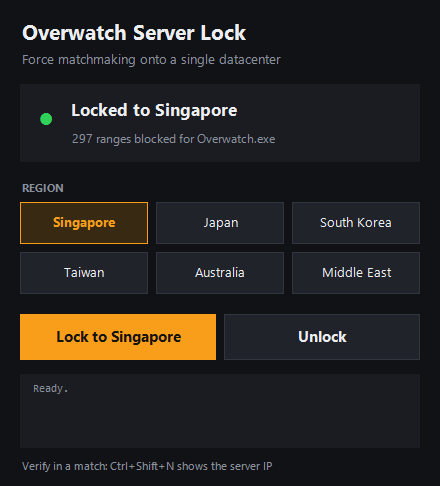
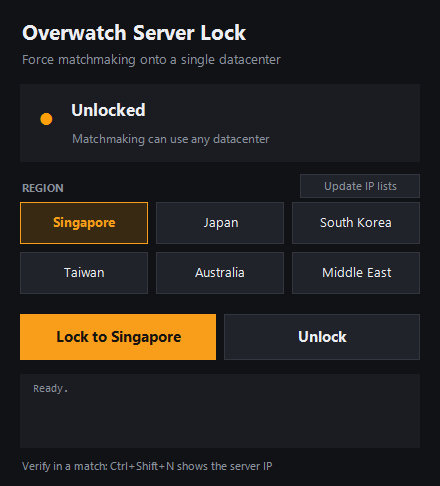
Faster lock: cached lists, parallel fetch, warm-up; add Update IP lists
- Lock uses the cached datacenter lists; new Update IP lists button
  (-Update) checks upstream and re-applies an active lock.
- Download changed lists in parallel (raise .NET's 2-connection cap):
  cold fetch 5.3 s -> 0.5 s.
- GUI keeps one background runspace and preloads NetSecurity and
  ScheduledTasks on open; clicks during warm-up are queued.
- Skip re-registering an identical refresh task and re-copying an
  unchanged script. Re-lock keeps recently seen login /24s.
- Always reset owner and ACL on the ProgramData state dir.
- Log unlocks to refresh.log.

diff --git a/README.md b/README.md
@@ -28,8 +28,10 @@ so matchmaking can only place you on the region you chose.
 
 ## How it works
 
-1. Downloads the current Overwatch 2 datacenter IP lists maintained by the community
+1. Uses the Overwatch 2 datacenter IP lists maintained by the community
    ([foryVERX/Overwatch-Server-Selector](https://github.com/foryVERX/Overwatch-Server-Selector)).
+   They are downloaded once and cached; **Update IP lists** checks upstream and downloads only files that
+   changed (in parallel), then re-applies the lock if it is on.
 2. Subtracts the ranges of the region you keep, plus the Battle.net login and patch endpoints
    (resolved via DNS at lock time) so sign-in keeps working.
 3. Creates inbound and outbound Windows Firewall block rules, scoped to `Overwatch.exe` only.
@@ -48,7 +50,7 @@ and the scheduled task. Settings, cached lists and `refresh.log` live in `%Progr
 2. Close Overwatch.
 3. Double-click the exe and accept the UAC prompt (firewall rules need admin).
    SmartScreen may warn because the exe is unsigned: **More info** then **Run anyway**.
-4. Pick a region and click **Lock**.
+4. Pick a region and click **Lock**. Use **Update IP lists** now and then to pull newer datacenter lists.
 5. Start Overwatch and queue. In a match, press `Ctrl+Shift+N` to see the server IP and confirm.
 6. Click **Unlock** when you are done, or before grouping with friends who play on other servers.
 
@@ -61,6 +63,7 @@ The exe is a thin launcher around two PowerShell scripts in [`src/`](src). You c
 ```powershell
 .\src\ow-lock.ps1 -On                   # lock to Singapore (default)
 .\src\ow-lock.ps1 -On -Keep Japan       # lock to another region (regex on list names)
+.\src\ow-lock.ps1 -Update               # pull newer datacenter lists, re-apply the lock if on
 .\src\ow-lock.ps1 -On -DryRun -Verbose  # preview the ranges, change nothing
 .\src\ow-lock.ps1 -On -NoAutoRefresh  # lock without the login IP refresh task
 .\src\ow-lock.ps1 -Status
@@ -97,7 +100,7 @@ then check those IPs against the blocked ranges with `-DryRun -Verbose`. Please
 
 ## Caveats
 
-- **Lists go stale.** Blizzard moves and adds servers. Each lock checks upstream (one request) and downloads only lists that changed; if you start landing on the
+- **Lists go stale.** Blizzard moves and adds servers. Click **Update IP lists** (one request when nothing changed); if you start landing on the
   wrong region again, the upstream lists need updating.
 - **Longer queues** are possible, since you only match with players on one datacenter.
 - **Groups:** if your party leader is placed on a blocked datacenter you will fail to connect. Unlock first.
